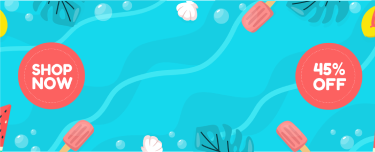
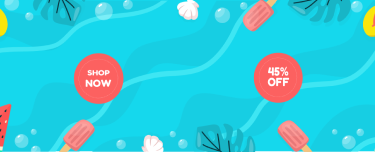
Habilitada la vista para tablets

diff --git a/src/lib/Banner.svelte b/src/lib/Banner.svelte
@@ -9,7 +9,6 @@
      
     let currentImage =  0
     let imgS = [imagenAni1, imagenAni2, imagenAni3, imagenAni4]
-    let isMobile = false
 
     onMount(() => {
     setInterval(() => {
@@ -20,35 +19,47 @@
 </script>
 
 
-
 <nav class="sticky inset-0 z-20 w-full h-20 px-5 py-2 backdrop-filter backdrop-blur-sm border-b drop-shadow-2xl shadow-md md:py-5 md:h-28">
-  <div class="flex flex-col gap-2 items-center">
-       <h1 class="font-extrabold text-2xl md:text-4xl">SS Modernity</h1>
-       <p class="text-sm">Your way, your style</p>
-  </div>   
+    <div class="flex flex-col gap-2 items-center">
+        <h1 class="font-extrabold text-2xl md:text-4xl">SS Modernity</h1>
+        <p class="text-sm">Your way, your style</p>
+    </div>   
 </nav>
-<figure class="relative inset-0 w-full mt-2 h-48 mb-8 shadow-md md:hidden">
-  <div class="relative p-10 z-10 flex gap-2 flex-col justify-center items-center text-center">
-      <p class="text-lg text-slate-50 drop-shadow-2xl">The best quality at the best price.</p>
-      <h2 class="text-4xl text-slate-50 drop-shadow-2xl">Summer!</h2>
-      <p class="text-2x1 text-yellow-300 drop-shadow-2xl">SUPER SALE</p>
-  </div>
-  <img class="absolute top-0 w-full h-full block" src={MobileBan} alt="">
+<figure class="BannerFigRules h-52 shadow-md md:hidden">
+    <div class="relative p-10 z-10 flex gap-2 flex-col justify-center items-center text-center">
+        <p class="text-lg text-slate-50 drop-shadow-2xl">The best quality at the best price.</p>
+        <h2 class="text-4xl text-slate-50 drop-shadow-2xl">Summer!</h2>
+        <p class="text-2x1 text-yellow-300 drop-shadow-2xl">SUPER SALE</p>
+    </div>
+    <img class="BannerImgRules absolute top-0" src={MobileBan} alt="">
 </figure>
-<div class="relative hidden h-[100vh] w-full py-1 px-4 bg-transparent md:block">
-    {#each imgS as img, i}
-      <figure class="absolute h-[95%] w-[95%] mt-4 ml-6 transition duration-300 transform opacity-0 rounded-sm mb-4 shadow-md {currentImage === i ? 'translate-x-0 opacity-100' : ''}">
-            <img class="block w-full h-full object-cover" src={img} alt="">
-      </figure>
-    {/each}
-</div>
-<figure class="relative hidden w-full h-60 mt-4 mb-8 shadow-md lg:block">
-  <div class="relative p-7 z-10 flex gap-4 flex-col justify-center items-center text-center">
-      <p class="text-2xl text-red-400 drop-shadow-2xl">Up to 50% OFF</p>
-      <h2 class="text-6xl text-cyan-400 drop-shadow-2xl">Summer!</h2>
-      <p class="text-3xl text-red-500 drop-shadow-2xl">BIG SALE</p>
-  </div>
-  <img class="absolute top-0 w-full h-full block object-cover" src={bigSale} alt="">
+<section class="flex items-center gap-4 lg:flex-col">
+    <div class="mt-4 w-[40%] hidden md:block lg:hidden">
+        <figure class="relative w-full h-60 border-r border-b shadow-lg rounded-sm p-1">
+            <div class="w-[90%] h-[90%] flex flex-col gap-3 items-center rounded-sm mt-2 mx-auto p-4 shadow-lg bg-slate-400/60">
+                <h4 class="self-start text-2xl">Join the SS club</h4>
+                <p class="">15% discount on our entire catalog, notification of new products in stock, and 5 gift coupons!</p>
+                <button class="self-start w-16 h-10 active:scale-90 transition-all bg-red-400/60 rounded-md">
+                    <p class="text-sm text-slate-50">Sign Up</p>
+                </button>
+            </div>
+        </figure>
+    </div>
+    <div class="relative hidden bg-transparent shadow-md md:w-[60%] md:h-60 md:block lg:w-full lg:h-[100vh]  lg:block">
+        {#each imgS as img, i}
+          <figure class="absolute h-full w-full mt-2 transition duration-300 transform opacity-0 rounded-md mb-4 shadow-md {currentImage === i ? 'translate-x-0 opacity-100' : ''}">
+                <img class="BannerImgRules" src={img} alt="">
+          </figure>
+        {/each}
+    </div>
+</section>
+<figure class="BannerFigRules h-60 hidden mt-6 lg:block">
+    <div class="BannerDivRules p-7 gap-4">
+        <p class="text-2xl text-red-400 drop-shadow-2xl">Up to 50% OFF</p>
+        <h2 class="text-6xl text-cyan-400 drop-shadow-2xl">Summer!</h2>
+        <p class="text-3xl text-red-500 drop-shadow-2xl">BIG SALE</p>
+    </div>
+    <img class="BannerImgRules absolute top-0" src={bigSale} alt="">
 </figure>
 
 

diff --git a/src/index.css b/src/index.css
@@ -12,11 +12,20 @@
 }
 
 @layer components {
+    .BannerFigRules {
+        @apply relative w-full mt-2 h-48 mb-8 shadow-md
+    }
+    .BannerDivRules {
+        @apply relative p-10 z-10 flex gap-2 flex-col justify-center items-center text-center
+    }
+    .BannerImgRules {
+        @apply w-full h-full object-cover 
+    }
     .SideLiConfig {
         @apply grid grid-cols-[max-content,_0fr] group-hover:grid-cols-[max-content,_2fr] rounded-md
     }
     .SideIconsConfig {
-        @apply block w-12 h-12 bg-transparent  rounded-lg active:scale-90 transition duration-200 cursor-pointer p-2
+        @apply block w-12 h-12 bg-transparent rounded-lg active:scale-90 transition duration-200 cursor-pointer p-2
     }
     .SideArtConfig {
         @apply overflow-hidden group-hover:block relative
@@ -25,15 +34,15 @@
         @apply text-center text-sm font-extralight py-3 absolute lg:text-base
     }
     .HomeDivSet {
-        @apply  flex flex-col flex-wrap gap-8 content-center lg:flex-row lg:justify-center
+        @apply  flex flex-col flex-wrap gap-6 justify-center content-center md:flex-row lg:gap-8
     }
     .HomefigSet {
-        @apply w-52 h-44 rounded-sm border-2 md:min-w-72 md:min-h-60 cursor-pointer active:scale-90 transition-all relative
+        @apply w-52 h-44 rounded-sm border-2 lg:min-w-72 lg:min-h-60 cursor-pointer active:scale-90 transition-all relative
     }
     .HomeImgSet {
         @apply w-full h-full object-cover
     }
     .HomeHiddenInfo {
-        @apply w-full h-28 space-y-2 p-2 bg-gray-400/50 rounded-sm text-start absolute bottom-0 opacity-0 transition-all duration-200
+        @apply w-full h-28 space-y-1 p-2 bg-gray-400/50 rounded-sm text-start absolute bottom-0 opacity-0 transition-all duration-200 md:space-y-2
     }
 }

diff --git a/src/lib/SideBar.svelte b/src/lib/SideBar.svelte
@@ -20,8 +20,8 @@
 </script>
 
 
-<div class="sticky inset-0 top-28 z-50 w-16 h-[340px] p-2 border-r bg-transparent rounded-lg cursor-pointer transition-all duration-200 group hover:w-40 drop-shadow-lg lg:w-20 lg:p-3">
-    <ul class="flex flex-col p-0 space-y-4">
+<div class="sticky inset-0 top-28 z-50 w-16 h-[340px] p-2 border-r border-b bg-transparent rounded-lg cursor-pointer transition-all duration-200 group hover:w-40 drop-shadow-2xl shadow-lg lg:w-20 lg:p-3">
+    <ul class="flex flex-col p-0 space-y-4 lg:ml-2">
         <li class="SideLiConfig">
             <button class="SideIconsConfig" on:click={enableDark}>
                 <img class="w-full h-full" src={isDarkMode ? moonIcon : sunIcon} alt="Light/Dark">

diff --git a/src/lib/Home.svelte b/src/lib/Home.svelte
@@ -33,7 +33,7 @@
     productos.push(modernMaleOut, summerWomenOut, casualOut, ofWhite, sportOut, grungeOut, beachAcc, girlSport, chicOut) 
 </script>
 
-<section class="basis-[80%] relative bg-transparent w-[60%] h-auto p-4 border-t border-b rounded-md lg:mb-60 lg:w-[80%] transition-all drop-shadow-lg">
+<section class="basis-[80%] relative bg-transparent w-[60%] h-auto p-4 border-r border-b rounded-md lg:mb-60 lg:w-[80%] transition-all drop-shadow-lg shadow-lg">
     <h2 class="">Our Products:</h2>
     <div class="HomeDivSet">
     {#each productos as prod }

diff --git a/tailwind.config.js b/tailwind.config.js
@@ -6,10 +6,6 @@ export default {
     extend: {
       fontFamily: {
         "lobster": ["'Lobster'", "sans-serif"]
-      },
-      backgroundColor: {
-        "ArrowBtnR": "url('./src/assets/ArrowRight.svg')",
-        "BigSaleBan": "url('./src/assets/BannerBeta.png')"
       }
     },
   },

diff --git a/src/App.svelte b/src/App.svelte
@@ -14,7 +14,7 @@
     <header class="mb-14 p-0">
       <Banner />
     </header>
-    <article class="flex lg:gap-x-16">
+    <article class="flex md:gap-8 lg:gap-x-16">
       <SideNav on:ChangeMode={enableMode}/>
       <HomeSec />
     </article>
